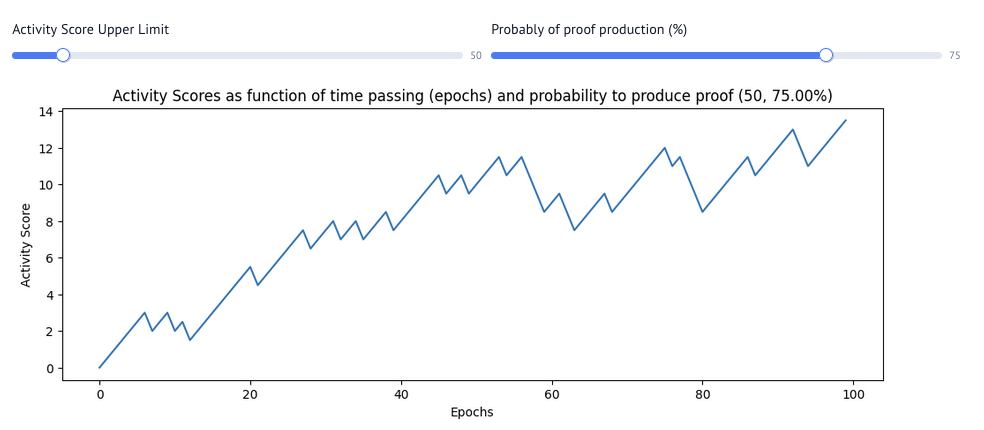
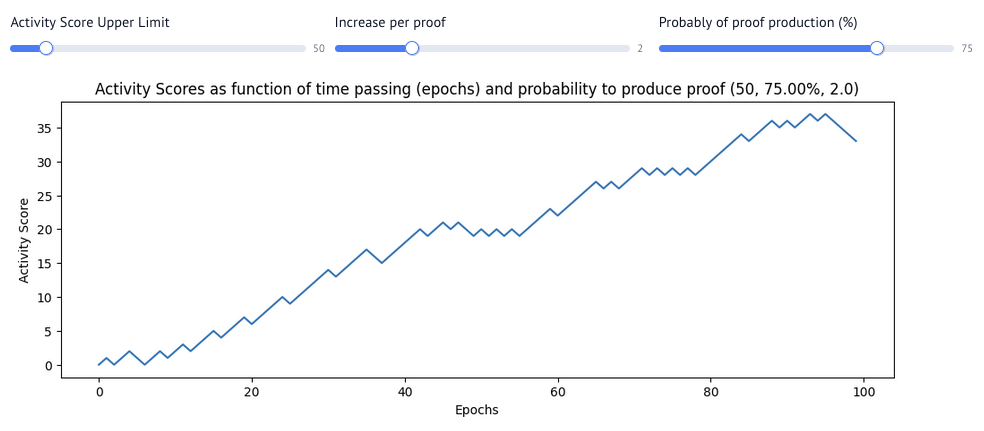
chore: address comments

diff --git a/docs/prover-reward-boost/notebook/prover-boost-rewards.py b/docs/prover-reward-boost/notebook/prover-boost-rewards.py
@@ -32,7 +32,7 @@ def _(mo, precision):
     Every `prover` will have some value `x` that is stored for them specifically reflecting their recent activity. 
     The value is computed fairly simply. 
     Every time an epoch passes, the activity score goes down by 1. 
-    Every block the prover produces increases their value with 2. 
+    Every block the prover produces increases their value with some "proof_increase" value. 
     The value is bounded to be between `0` and `upper`.
 
     We use `upper` to limit the score in order to constrain how long a boost is maintained after the actor stops proving.
@@ -59,6 +59,17 @@ def _(mo):
         value=50,
     )
 
+    proof_increase = mo.ui.slider(
+        label="Increase per proof",
+        start=1,
+        stop=5,
+        step=0.125,
+        show_value=True,
+        full_width=True,
+        value=2,
+    )
+
+
     proof_probability = mo.ui.slider(
         label="Probably of proof production (%)",
         start=0,
@@ -68,18 +79,18 @@ def _(mo):
         value=75,
     )
 
-    mo.hstack([upper_limit, proof_probability])
-    return proof_probability, upper_limit
+    mo.hstack([upper_limit, proof_increase, proof_probability])
+    return proof_increase, proof_probability, upper_limit
 
 
 @app.cell
-def _(plt, proof_probability, random, upper_limit):
-    def plot_activity_score(upper_limit=50, p=0.75):
+def _(plt, proof_increase, proof_probability, random, upper_limit):
+    def plot_activity_score(upper_limit=50, p=0.75, proof_increase=2):
         X = [i for i in range(upper_limit * 2)]
         Y = [0]
 
         for x in X[1:]:
-            r = 1.5 if random.random() <= p else 0
+            r = proof_increase if random.random() <= p else 0
             Y.append(min(max(0, Y[-1] + r - 1), upper_limit))
 
         fig, ax = plt.subplots(figsize=(12, 4))
@@ -87,7 +98,7 @@ def _(plt, proof_probability, random, upper_limit):
         ax.plot(X, Y)
 
         ax.set_title(
-            f"Activity Scores as function of time passing (epochs) and probability to produce proof ({upper_limit}, {p:.2%})"
+            f"Activity Scores as function of time passing (epochs) and probability to produce proof ({upper_limit}, {p:.2%}, {proof_increase})"
         )
         ax.set_ylabel("Activity Score")
         ax.set_xlabel("Epochs")
@@ -96,7 +107,9 @@ def _(plt, proof_probability, random, upper_limit):
 
 
     plot_activity_score(
-        upper_limit=upper_limit.value, p=proof_probability.value / 100
+        upper_limit=upper_limit.value,
+        p=proof_probability.value / 100,
+        proof_increase=proof_increase.value,
     )
     return
 

diff --git a/docs/prover-reward-boost/dd.md b/docs/prover-reward-boost/dd.md
@@ -13,7 +13,7 @@
 
 To incentivize consistent proving, we "boost" the share of rewards going to consistent provers based on their activity.
 
-Basic requirement: Provers that consistently prove blocks should be rewarded.
+Basic requirement: Provers that consistently prove blocks should be rewarded more than provers that sporadically prove blocks.
 
 ## Timeline
 
@@ -27,7 +27,7 @@ Total: 2 days + 🤷
 We want people to prove consistently.
 This work pay people proving consistently a bigger share of rewards.
 
-Assumes that there will be more than 1 prover. 
+Assumes that there will be more than 1 prover.
 Otherwise the share don't matter.
 
 ## Interface
@@ -39,14 +39,14 @@ No user will interact directly with this, it is merely an accounting update behi
 Please consult the interactive `marimo` notebook for this, that is probably much simpler. Same text as here is also in there.
 
 Currently a prover have `1` share of the reward.
-To support boosting, we alter this such that a prover will instead have that their number of shares depends on their prior actions. 
+To support boosting, we alter this such that a prover will instead have that their number of shares depends on their prior actions.
 
 To do so, we will first introduce an "activity score" and then a method to derive the number of shares from that it.
 
-Every `prover` will have some value `x` that is stored for them specifically reflecting their recent activity. 
-The value is computed fairly simply. 
-Every time an epoch passes, the activity score goes down by 1. 
-Every block the prover produces increases their value with 2. 
+Every `prover` will have some value `x` that is stored for them specifically reflecting their recent activity.
+The value is computed fairly simply.
+Every time an epoch passes, the activity score goes down by 1.
+Every block the prover produces increases their value with 2.
 The value is bounded to be between `0` and `upper`.
 
 We use `upper` to limit the score in order to constrain how long a boost is maintained after the actor stops proving.
@@ -73,6 +73,35 @@ Note, that setting $h$ to be equal the `upper` limit that we supplied earlier is
 
 ![](./images/shares.png)
 
+---
+
+The practical implementation will update the `SubEpochRewards` struct, `EpochProofLib::handleRewardsAndFees` and `RewardLib::claimProverRewards`.
+
+```solidity
+// Old
+struct SubEpochRewards {
+  uint256 summedCount;
+  mapping(address prover => bool proofSubmitted) hasSubmitted;
+}
+
+// New
+struct SubEpochRewards {
+  uint256 summedShares;
+  mapping(address prover => uint256 shares) proverShares;
+}
+```
+
+`EpochProofLib::handleRewardsAndFees`:
+Instead of storing `bool` with `hasSubmitted` we store the `proverShares`, and increase the `summedShares` instead `summedCount`.
+
+`RewardLib::claimProverRewards`:
+Hence we don't have `hasSubmitted` anymore, we will simply alter the accumulation as:
+
+```solidity
+SubEpochRewards storage es = e.subEpoch[e.longestProvenLength];
+accumulatedRewards += (es.proverShares[msg.sender] * e.rewards / es.summedShares);
+```
+
 ## Change Set
 
 Fill in bullets for each area that will be affected by this change.
@@ -95,11 +124,11 @@ Fill in bullets for each area that will be affected by this change.
 
 ## Test Plan
 
-List key test scenarios or validation steps required to confirm the design meets all project requirements.
+The `marimo` doc is generating test data that can be used to ensure that the math makes sense.
 
 ## Documentation Plan
 
-Identify changes or additions to the user documentation or protocol spec.
+You are looking at it.
 
 ## Disclaimer
 
